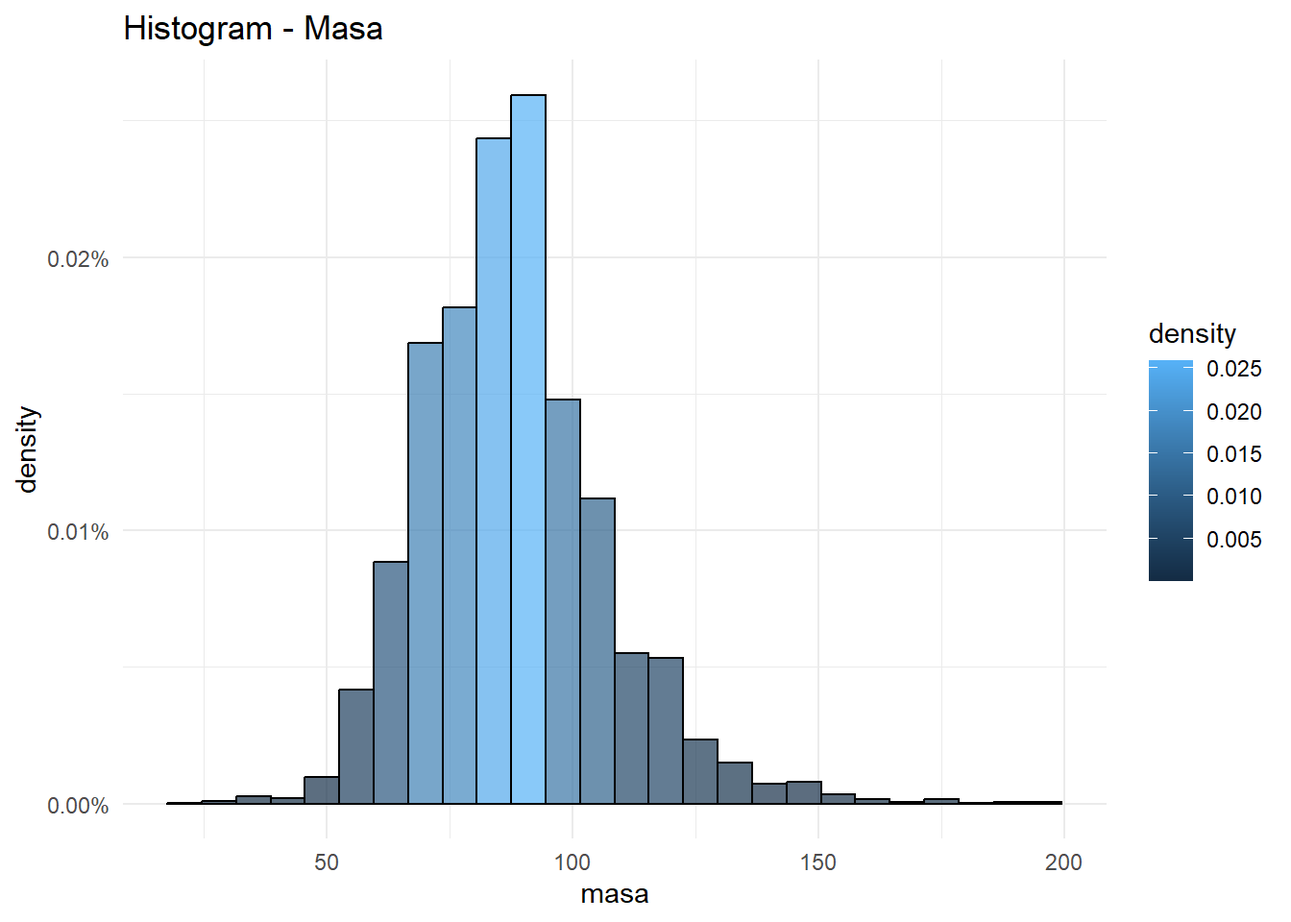
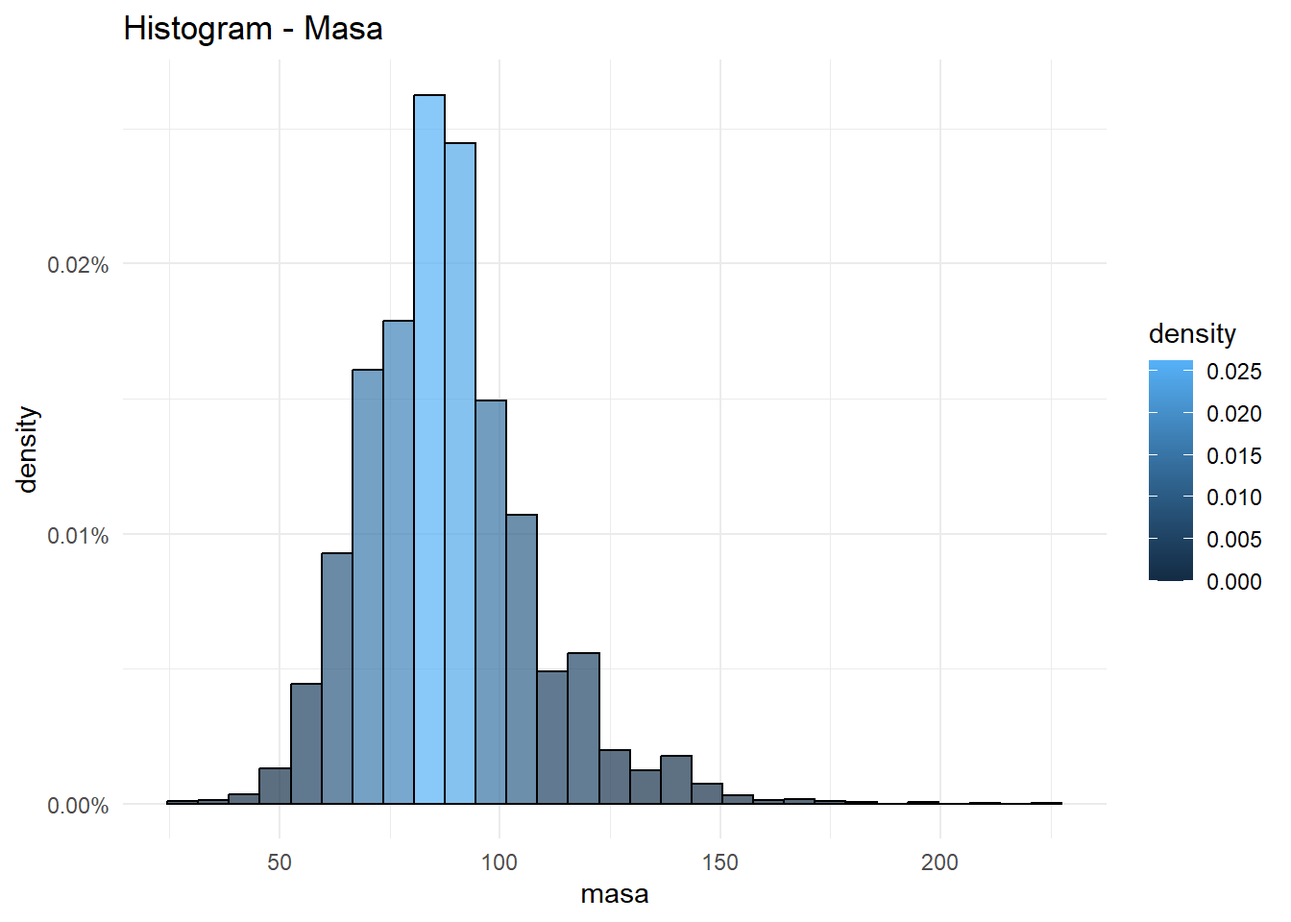
Analiza zależności

diff --git a/Raport_quatro/raport.html b/Raport_quatro/raport.html
@@ -124,114 +124,101 @@ pre > code.sourceCode > span > a:first-child::before { text-decoration: underlin
 <h2 class="anchored" data-anchor-id="ładowanie-danych">Ładowanie danych</h2>
 <p>Wpierw przystąpimy do załadowania potrzebnych bibliotek</p>
 <div class="cell">
-<div class="cell-output cell-output-stderr">
-<pre><code>Warning: pakiet 'ggplot2' został zbudowany w wersji R 4.3.2</code></pre>
+<div class="sourceCode cell-code" id="cb1"><pre class="sourceCode r code-with-copy"><code class="sourceCode r"><span id="cb1-1"><a href="#cb1-1" aria-hidden="true" tabindex="-1"></a><span class="fu">library</span>(tidyverse)</span>
+<span id="cb1-2"><a href="#cb1-2" aria-hidden="true" tabindex="-1"></a><span class="fu">library</span>(readxl)</span></code><button title="Copy to Clipboard" class="code-copy-button"><i class="bi"></i></button></pre></div>
 </div>
-<div class="cell-output cell-output-stderr">
-<pre><code>── Attaching core tidyverse packages ──────────────────────── tidyverse 2.0.0 ──
-✔ dplyr     1.1.3     ✔ readr     2.1.4
-✔ forcats   1.0.0     ✔ stringr   1.5.0
-✔ ggplot2   3.4.4     ✔ tibble    3.2.1
-✔ lubridate 1.9.3     ✔ tidyr     1.3.0
-✔ purrr     1.0.2     
-── Conflicts ────────────────────────────────────────── tidyverse_conflicts() ──
-✖ dplyr::filter() masks stats::filter()
-✖ dplyr::lag()    masks stats::lag()
-ℹ Use the conflicted package (&lt;http://conflicted.r-lib.org/&gt;) to force all conflicts to become errors</code></pre>
-</div>
-</div>
-<p>You can add options to executable code like this</p>
+<p>Teraz odczytamy dane z pliku csv.</p>
 <div class="cell">
-<div class="sourceCode cell-code" id="cb3"><pre class="sourceCode r code-with-copy"><code class="sourceCode r"><span id="cb3-1"><a href="#cb3-1" aria-hidden="true" tabindex="-1"></a>dane <span class="ot">&lt;-</span> <span class="fu">read.csv</span>(<span class="st">"../menpowerlifting.csv"</span>)</span></code><button title="Copy to Clipboard" class="code-copy-button"><i class="bi"></i></button></pre></div>
+<div class="sourceCode cell-code" id="cb2"><pre class="sourceCode r code-with-copy"><code class="sourceCode r"><span id="cb2-1"><a href="#cb2-1" aria-hidden="true" tabindex="-1"></a>dane <span class="ot">&lt;-</span> <span class="fu">read.csv</span>(<span class="st">"../menpowerlifting.csv"</span>)</span></code><button title="Copy to Clipboard" class="code-copy-button"><i class="bi"></i></button></pre></div>
 </div>
 <p>Jak widać mamy doczynienia z bardzo dużym zbiorem danych.</p>
 <div class="cell">
-<div class="sourceCode cell-code" id="cb4"><pre class="sourceCode r code-with-copy"><code class="sourceCode r"><span id="cb4-1"><a href="#cb4-1" aria-hidden="true" tabindex="-1"></a><span class="fu">dim</span>(dane)</span></code><button title="Copy to Clipboard" class="code-copy-button"><i class="bi"></i></button></pre></div>
+<div class="sourceCode cell-code" id="cb3"><pre class="sourceCode r code-with-copy"><code class="sourceCode r"><span id="cb3-1"><a href="#cb3-1" aria-hidden="true" tabindex="-1"></a><span class="fu">dim</span>(dane)</span></code><button title="Copy to Clipboard" class="code-copy-button"><i class="bi"></i></button></pre></div>
 <div class="cell-output cell-output-stdout">
 <pre><code>[1] 158266     41</code></pre>
 </div>
 </div>
 <p>Tym samym w celu dalszej analizy wygenerujemy losową próbkę o długości 5000</p>
 <div class="cell">
-<div class="sourceCode cell-code" id="cb6"><pre class="sourceCode r code-with-copy"><code class="sourceCode r"><span id="cb6-1"><a href="#cb6-1" aria-hidden="true" tabindex="-1"></a>probka <span class="ot">&lt;-</span> <span class="fu">sample_n</span>(dane, <span class="dv">5000</span>)</span></code><button title="Copy to Clipboard" class="code-copy-button"><i class="bi"></i></button></pre></div>
+<div class="sourceCode cell-code" id="cb5"><pre class="sourceCode r code-with-copy"><code class="sourceCode r"><span id="cb5-1"><a href="#cb5-1" aria-hidden="true" tabindex="-1"></a>probka <span class="ot">&lt;-</span> <span class="fu">sample_n</span>(dane, <span class="dv">5000</span>)</span></code><button title="Copy to Clipboard" class="code-copy-button"><i class="bi"></i></button></pre></div>
 </div>
 <p>Tak się prezentuje 10 początkowych obserwacji</p>
 <div class="cell">
-<div class="sourceCode cell-code" id="cb7"><pre class="sourceCode r code-with-copy"><code class="sourceCode r"><span id="cb7-1"><a href="#cb7-1" aria-hidden="true" tabindex="-1"></a><span class="fu">head</span>(probka)</span></code><button title="Copy to Clipboard" class="code-copy-button"><i class="bi"></i></button></pre></div>
+<div class="sourceCode cell-code" id="cb6"><pre class="sourceCode r code-with-copy"><code class="sourceCode r"><span id="cb6-1"><a href="#cb6-1" aria-hidden="true" tabindex="-1"></a><span class="fu">head</span>(probka)</span></code><button title="Copy to Clipboard" class="code-copy-button"><i class="bi"></i></button></pre></div>
 <div class="cell-output cell-output-stdout">
-<pre><code>             Name Sex Event Equipment  Age AgeClass BirthYearClass
-1   Valentin Soto   M   SBD       Raw 30.0    24-34          24-39
-2 Steffen Burghar   M   SBD       Raw 64.0    60-64          60-69
-3  Gareth Murchie   M   SBD       Raw   NA                        
-4  Miha Jovanović   M   SBD       Raw 21.0    20-23          19-23
-5         Qing Li   M   SBD       Raw 18.5    18-19          19-23
-6     Jack Lysell   M   SBD       Raw 24.0    24-34          24-39
+<pre><code>              Name Sex Event Equipment  Age AgeClass BirthYearClass
+1  Jackson Lathrop   M   SBD       Raw 16.5    16-17          14-18
+2 Francesco Tironi   M   SBD       Raw 28.5    24-34          24-39
+3  Carlos Hicks Jr   M   SBD       Raw 15.5    16-17          14-18
+4      Tomáš Vorel   M   SBD       Raw 16.5    16-17          14-18
+5     Jason Masler   M   SBD       Raw 18.0    18-19               
+6   Michal Talalaj   M   SBD       Raw 16.5    16-17          14-18
        Division BodyweightKg WeightClassKg Squat1Kg Squat2Kg Squat3Kg Squat4Kg
-1          Open       106.20           110   -250.0    252.5    262.5       NA
-2 Masters 60-64        71.80            75    140.0    150.0    160.0       NA
-3      M-C-Open        82.40            83    140.0    150.0    160.0       NA
-4          Open       101.40           110    200.0    215.0   -225.0       NA
-5          MR-O        66.76          67.5    125.0   -140.0   -140.0       NA
-6          Open        98.30           100    182.5    202.5    215.0       NA
+1         MR-T2        68.30            75      140      145    150.0       NA
+2        Senior       117.12           120      265      280   -290.0       NA
+3         MR-Sj        81.70            83     -230      240    252.5       NA
+4   Sub-Juniors        64.20            66       NA       NA       NA       NA
+5 Juniors 18-19        64.10          67.5       NA       NA       NA       NA
+6         MR-T2        81.50          82.5      175     -185    185.0       NA
   Best3SquatKg Bench1Kg Bench2Kg Bench3Kg Bench4Kg Best3BenchKg Deadlift1Kg
-1        262.5    187.5   -192.5   -192.5       NA        187.5       290.0
-2        160.0     92.5     95.0    -97.5       NA         95.0       140.0
-3        160.0    115.0    122.5    130.0       NA        130.0       215.0
-4        215.0    150.0   -165.0   -165.0       NA        150.0       250.0
-5        125.0    110.0    120.0   -125.0       NA        120.0       130.0
-6        215.0    135.0    142.5    147.5       NA        147.5       237.5
+1        150.0       95      100     -110       NA        100.0         155
+2        280.0      165      175     -180       NA        175.0         280
+3        252.5      125      135     -145       NA        135.0         245
+4        147.5       NA       NA       NA       NA        105.0          NA
+5        167.5       NA       NA       NA       NA         87.5          NA
+6        185.0      100      110     -115       NA        110.0         185
   Deadlift2Kg Deadlift3Kg Deadlift4Kg Best3DeadliftKg TotalKg Place   Dots
-1         300      -307.5          NA             300   750.0     1 450.27
-2         150       160.0          NA             160   415.0     1 306.37
-3         225       230.0          NA             230   520.0     1 352.49
-4         255          NA          NA             255   620.0     3 379.35
-5         150       165.0          NA             165   410.0     1 318.55
-6         250          NA          NA             250   612.5     4 379.85
-   Wilks Glossbrenner Goodlift Tested  Country State    Federation
-1 446.41       426.33    92.11    Yes      USA    NV          USPA
-2 305.11       295.36    61.89                           PAGermany
-3 348.60       335.44    72.25    Yes  England    NM           EPA
-4 375.27       358.36    77.81        Slovenia       WRPF-Slovenia
-5 318.94       309.75    63.53    Yes    China               USAPL
-6 375.38       358.65    78.01             USA    TX          USPA
-  ParentFederation       Date MeetCountry MeetState    MeetTown
-1              IPL 2023-09-09         USA        NV   Las Vegas
-2              WPF 2015-05-01     Germany                Coburg
-3              IPF 2019-04-27     England                      
-4             WRPF 2023-10-28    Slovenia           Škofja Loka
-5                  2023-07-29       China                      
-6              IPL 2020-12-05         USA        MO Kansas City
-                                                    MeetName
-1                                 Drug Tested Desert Rampage
-2 Deutsche Meisterschaften im KDK Bankdrücken und Kreuzheben
-3                        North Midlands Spring Championships
-4                        4. slovensko powerlifting prvenstvo
-5                                    Southwest Championships
-6                                            Only the Strong</code></pre>
+1         160         165          NA           165.0   415.0     5 317.17
+2         290         300          NA           300.0   755.0     3 437.18
+3         255         260          NA           260.0   647.5     1 441.05
+4          NA          NA          NA           172.5   425.0     1 340.00
+5          NA          NA          NA           167.5   422.5     1 338.40
+6         190         200          NA           200.0   495.0     1 337.65
+   Wilks Glossbrenner Goodlift Tested Country State Federation ParentFederation
+1 316.99       307.54    63.53    Yes     USA    GA      USAPL                 
+2 436.62       418.20    88.71    Yes                     FIPL              IPF
+3 436.32       420.02    90.35    Yes     USA    MS        AMP              IPF
+4 341.50       332.29    67.23    Yes Czechia             CSST              IPF
+5 339.95       330.80    66.89            USA    CA       USPA              IPL
+6 334.06       321.61    69.16    Yes     USA    IL      USAPL                 
+        Date MeetCountry MeetState           MeetTown
+1 2023-11-04         USA        GA                   
+2 2023-10-14       Italy           S.Zenone al Lambro
+3 2022-12-10         USA        MS                   
+4 2017-05-13     Czechia                       Zbýšov
+5 2017-08-12         USA        CA         Long Beach
+6 2023-03-11         USA        IL                   
+                                                                                                  MeetName
+1                                                                              South Georgia Barbell Brawl
+2                                                                           Finali maschili senior classic
+3                                                                                         Mississippi Open
+4 Ročník Poháru Starosty Města Zbýšova v Klasickém Silovém Trojboji Dorostu a Juniorů S Mezinárodní Účastí
+5                                                                                          Long Beach Open
+6                                                                                    Shamrock the Compound</code></pre>
 </div>
 </div>
 <p>Interesować nas będą tylko zmienne <strong>AgeClass, BodyWeightKg, Best3BenchKg, Best3DeadliftKg, Best3SquatKg, TotalKg</strong></p>
 <div class="cell">
-<div class="sourceCode cell-code" id="cb9"><pre class="sourceCode r code-with-copy"><code class="sourceCode r"><span id="cb9-1"><a href="#cb9-1" aria-hidden="true" tabindex="-1"></a>probka <span class="ot">&lt;-</span> probka[, <span class="fu">c</span>(<span class="st">"AgeClass"</span>, <span class="st">"BodyweightKg"</span>, <span class="st">"Best3BenchKg"</span>, <span class="st">"Best3SquatKg"</span>, <span class="st">"Best3DeadliftKg"</span>, <span class="st">"TotalKg"</span>)]</span>
-<span id="cb9-2"><a href="#cb9-2" aria-hidden="true" tabindex="-1"></a></span>
-<span id="cb9-3"><a href="#cb9-3" aria-hidden="true" tabindex="-1"></a><span class="fu">summary</span>(probka)</span></code><button title="Copy to Clipboard" class="code-copy-button"><i class="bi"></i></button></pre></div>
+<div class="sourceCode cell-code" id="cb8"><pre class="sourceCode r code-with-copy"><code class="sourceCode r"><span id="cb8-1"><a href="#cb8-1" aria-hidden="true" tabindex="-1"></a>probka <span class="ot">&lt;-</span> probka[, <span class="fu">c</span>(<span class="st">"AgeClass"</span>, <span class="st">"BodyweightKg"</span>, <span class="st">"Best3BenchKg"</span>, <span class="st">"Best3SquatKg"</span>, <span class="st">"Best3DeadliftKg"</span>, <span class="st">"TotalKg"</span>)]</span>
+<span id="cb8-2"><a href="#cb8-2" aria-hidden="true" tabindex="-1"></a></span>
+<span id="cb8-3"><a href="#cb8-3" aria-hidden="true" tabindex="-1"></a><span class="fu">summary</span>(probka)</span></code><button title="Copy to Clipboard" class="code-copy-button"><i class="bi"></i></button></pre></div>
 <div class="cell-output cell-output-stdout">
 <pre><code>   AgeClass          BodyweightKg     Best3BenchKg    Best3SquatKg  
- Length:5000        Min.   : 23.40   Min.   : 12.0   Min.   : 16.5  
- Class :character   1st Qu.: 74.39   1st Qu.:100.0   1st Qu.:152.5  
- Mode  :character   Median : 86.80   Median :120.0   Median :180.0  
-                    Mean   : 87.94   Mean   :120.3   Mean   :180.0  
-                    3rd Qu.: 98.30   3rd Qu.:140.0   3rd Qu.:210.0  
-                    Max.   :196.70   Max.   :252.5   Max.   :365.5  
-                                     NA's   :4       NA's   :4      
+ Length:5000        Min.   : 21.77   Min.   : 10.5   Min.   : 11.0  
+ Class :character   1st Qu.: 74.30   1st Qu.:100.0   1st Qu.:150.0  
+ Mode  :character   Median : 86.09   Median :120.0   Median :180.0  
+                    Mean   : 87.99   Mean   :120.2   Mean   :179.2  
+                    3rd Qu.: 98.80   3rd Qu.:140.0   3rd Qu.:207.5  
+                    Max.   :200.00   Max.   :245.0   Max.   :410.0  
+                                     NA's   :5       NA's   :3      
  Best3DeadliftKg    TotalKg     
- Min.   : 31.0   Min.   : 59.5  
- 1st Qu.:182.5   1st Qu.:442.0  
- Median :212.5   Median :512.5  
- Mean   :210.5   Mean   :510.7  
- 3rd Qu.:240.0   3rd Qu.:585.0  
- Max.   :355.0   Max.   :922.5  
- NA's   :2                      </code></pre>
+ Min.   : 25.0   Min.   : 52.0  
+ 1st Qu.:182.5   1st Qu.:440.0  
+ Median :210.0   Median :510.0  
+ Mean   :209.4   Mean   :508.6  
+ 3rd Qu.:240.0   3rd Qu.:582.5  
+ Max.   :365.0   Max.   :955.0  
+ NA's   :6                      </code></pre>
 </div>
 </div>
 <p>Napotykamy pierwszy problem. Wszystkie zmienne są typu <code>character</code>, gdy powinny być typu</p>
@@ -241,86 +228,86 @@ pre > code.sourceCode > span > a:first-child::before { text-decoration: underlin
 </ul>
 <p>Dokonajmy więc konwersji</p>
 <div class="cell">
-<div class="sourceCode cell-code" id="cb11"><pre class="sourceCode r code-with-copy"><code class="sourceCode r"><span id="cb11-1"><a href="#cb11-1" aria-hidden="true" tabindex="-1"></a>probka<span class="sc">$</span>BodyweightKg    <span class="ot">&lt;-</span> <span class="fu">as.numeric</span>(probka<span class="sc">$</span>BodyweightKg)</span>
-<span id="cb11-2"><a href="#cb11-2" aria-hidden="true" tabindex="-1"></a>probka<span class="sc">$</span>Best3BenchKg    <span class="ot">&lt;-</span> <span class="fu">as.numeric</span>(probka<span class="sc">$</span>Best3BenchKg)</span>
-<span id="cb11-3"><a href="#cb11-3" aria-hidden="true" tabindex="-1"></a>probka<span class="sc">$</span>Best3SquatKg    <span class="ot">&lt;-</span> <span class="fu">as.numeric</span>(probka<span class="sc">$</span>Best3SquatKg)</span>
-<span id="cb11-4"><a href="#cb11-4" aria-hidden="true" tabindex="-1"></a>probka<span class="sc">$</span>Best3DeadliftKg <span class="ot">&lt;-</span> <span class="fu">as.numeric</span>(probka<span class="sc">$</span>Best3DeadliftKg)</span>
-<span id="cb11-5"><a href="#cb11-5" aria-hidden="true" tabindex="-1"></a>probka<span class="sc">$</span>TotalKg         <span class="ot">&lt;-</span> <span class="fu">as.numeric</span>(probka<span class="sc">$</span>TotalKg)</span>
-<span id="cb11-6"><a href="#cb11-6" aria-hidden="true" tabindex="-1"></a></span>
-<span id="cb11-7"><a href="#cb11-7" aria-hidden="true" tabindex="-1"></a>probka<span class="sc">$</span>AgeClass        <span class="ot">&lt;-</span> <span class="fu">as.factor</span>(probka<span class="sc">$</span>AgeClass)</span></code><button title="Copy to Clipboard" class="code-copy-button"><i class="bi"></i></button></pre></div>
+<div class="sourceCode cell-code" id="cb10"><pre class="sourceCode r code-with-copy"><code class="sourceCode r"><span id="cb10-1"><a href="#cb10-1" aria-hidden="true" tabindex="-1"></a>probka<span class="sc">$</span>BodyweightKg    <span class="ot">&lt;-</span> <span class="fu">as.numeric</span>(probka<span class="sc">$</span>BodyweightKg)</span>
+<span id="cb10-2"><a href="#cb10-2" aria-hidden="true" tabindex="-1"></a>probka<span class="sc">$</span>Best3BenchKg    <span class="ot">&lt;-</span> <span class="fu">as.numeric</span>(probka<span class="sc">$</span>Best3BenchKg)</span>
+<span id="cb10-3"><a href="#cb10-3" aria-hidden="true" tabindex="-1"></a>probka<span class="sc">$</span>Best3SquatKg    <span class="ot">&lt;-</span> <span class="fu">as.numeric</span>(probka<span class="sc">$</span>Best3SquatKg)</span>
+<span id="cb10-4"><a href="#cb10-4" aria-hidden="true" tabindex="-1"></a>probka<span class="sc">$</span>Best3DeadliftKg <span class="ot">&lt;-</span> <span class="fu">as.numeric</span>(probka<span class="sc">$</span>Best3DeadliftKg)</span>
+<span id="cb10-5"><a href="#cb10-5" aria-hidden="true" tabindex="-1"></a>probka<span class="sc">$</span>TotalKg         <span class="ot">&lt;-</span> <span class="fu">as.numeric</span>(probka<span class="sc">$</span>TotalKg)</span>
+<span id="cb10-6"><a href="#cb10-6" aria-hidden="true" tabindex="-1"></a></span>
+<span id="cb10-7"><a href="#cb10-7" aria-hidden="true" tabindex="-1"></a>probka<span class="sc">$</span>AgeClass        <span class="ot">&lt;-</span> <span class="fu">as.factor</span>(probka<span class="sc">$</span>AgeClass)</span></code><button title="Copy to Clipboard" class="code-copy-button"><i class="bi"></i></button></pre></div>
 </div>
 <div class="cell">
-<div class="sourceCode cell-code" id="cb12"><pre class="sourceCode r code-with-copy"><code class="sourceCode r"><span id="cb12-1"><a href="#cb12-1" aria-hidden="true" tabindex="-1"></a><span class="fu">summary</span>(probka)</span></code><button title="Copy to Clipboard" class="code-copy-button"><i class="bi"></i></button></pre></div>
+<div class="sourceCode cell-code" id="cb11"><pre class="sourceCode r code-with-copy"><code class="sourceCode r"><span id="cb11-1"><a href="#cb11-1" aria-hidden="true" tabindex="-1"></a><span class="fu">summary</span>(probka)</span></code><button title="Copy to Clipboard" class="code-copy-button"><i class="bi"></i></button></pre></div>
 <div class="cell-output cell-output-stdout">
 <pre><code>    AgeClass     BodyweightKg     Best3BenchKg    Best3SquatKg  
- 24-34  :1459   Min.   : 23.40   Min.   : 12.0   Min.   : 16.5  
- 20-23  :1044   1st Qu.: 74.39   1st Qu.:100.0   1st Qu.:152.5  
-        : 890   Median : 86.80   Median :120.0   Median :180.0  
- 18-19  : 513   Mean   : 87.94   Mean   :120.3   Mean   :180.0  
- 16-17  : 363   3rd Qu.: 98.30   3rd Qu.:140.0   3rd Qu.:210.0  
- 35-39  : 203   Max.   :196.70   Max.   :252.5   Max.   :365.5  
- (Other): 528                    NA's   :4       NA's   :4      
+ 24-34  :1468   Min.   : 21.77   Min.   : 10.5   Min.   : 11.0  
+ 20-23  :1092   1st Qu.: 74.30   1st Qu.:100.0   1st Qu.:150.0  
+        : 829   Median : 86.09   Median :120.0   Median :180.0  
+ 18-19  : 521   Mean   : 87.99   Mean   :120.2   Mean   :179.2  
+ 16-17  : 344   3rd Qu.: 98.80   3rd Qu.:140.0   3rd Qu.:207.5  
+ 35-39  : 191   Max.   :200.00   Max.   :245.0   Max.   :410.0  
+ (Other): 555                    NA's   :5       NA's   :3      
  Best3DeadliftKg    TotalKg     
- Min.   : 31.0   Min.   : 59.5  
- 1st Qu.:182.5   1st Qu.:442.0  
- Median :212.5   Median :512.5  
- Mean   :210.5   Mean   :510.7  
- 3rd Qu.:240.0   3rd Qu.:585.0  
- Max.   :355.0   Max.   :922.5  
- NA's   :2                      </code></pre>
+ Min.   : 25.0   Min.   : 52.0  
+ 1st Qu.:182.5   1st Qu.:440.0  
+ Median :210.0   Median :510.0  
+ Mean   :209.4   Mean   :508.6  
+ 3rd Qu.:240.0   3rd Qu.:582.5  
+ Max.   :365.0   Max.   :955.0  
+ NA's   :6                      </code></pre>
 </div>
 </div>
 <p>Dokonamy teraz zmiany nazw kolumn na bardziej przystępne</p>
 <div class="cell">
-<div class="sourceCode cell-code" id="cb14"><pre class="sourceCode r code-with-copy"><code class="sourceCode r"><span id="cb14-1"><a href="#cb14-1" aria-hidden="true" tabindex="-1"></a><span class="fu">colnames</span>(probka) <span class="ot">&lt;-</span> <span class="fu">c</span>(<span class="st">"wiek"</span>, <span class="st">"masa"</span>, <span class="st">"lawka"</span>, <span class="st">"przysiad"</span>, <span class="st">"martwyciag"</span>, <span class="st">"total"</span>)</span>
-<span id="cb14-2"><a href="#cb14-2" aria-hidden="true" tabindex="-1"></a><span class="fu">head</span>(probka)</span></code><button title="Copy to Clipboard" class="code-copy-button"><i class="bi"></i></button></pre></div>
+<div class="sourceCode cell-code" id="cb13"><pre class="sourceCode r code-with-copy"><code class="sourceCode r"><span id="cb13-1"><a href="#cb13-1" aria-hidden="true" tabindex="-1"></a><span class="fu">colnames</span>(probka) <span class="ot">&lt;-</span> <span class="fu">c</span>(<span class="st">"wiek"</span>, <span class="st">"masa"</span>, <span class="st">"lawka"</span>, <span class="st">"przysiad"</span>, <span class="st">"martwyciag"</span>, <span class="st">"total"</span>)</span>
+<span id="cb13-2"><a href="#cb13-2" aria-hidden="true" tabindex="-1"></a><span class="fu">head</span>(probka)</span></code><button title="Copy to Clipboard" class="code-copy-button"><i class="bi"></i></button></pre></div>
 <div class="cell-output cell-output-stdout">
 <pre><code>   wiek   masa lawka przysiad martwyciag total
-1 24-34 106.20 187.5    262.5        300 750.0
-2 60-64  71.80  95.0    160.0        160 415.0
-3        82.40 130.0    160.0        230 520.0
-4 20-23 101.40 150.0    215.0        255 620.0
-5 18-19  66.76 120.0    125.0        165 410.0
-6 24-34  98.30 147.5    215.0        250 612.5</code></pre>
+1 16-17  68.30 100.0    150.0      165.0 415.0
+2 24-34 117.12 175.0    280.0      300.0 755.0
+3 16-17  81.70 135.0    252.5      260.0 647.5
+4 16-17  64.20 105.0    147.5      172.5 425.0
+5 18-19  64.10  87.5    167.5      167.5 422.5
+6 16-17  81.50 110.0    185.0      200.0 495.0</code></pre>
 </div>
 </div>
 <div>
 <details>
 <summary>Code</summary>
-<div class="sourceCode cell-code" id="cb16"><pre class="sourceCode r code-with-copy"><code class="sourceCode r"><span id="cb16-1"><a href="#cb16-1" aria-hidden="true" tabindex="-1"></a><span class="co"># Assuming your dataframe is named 'probka'</span></span>
-<span id="cb16-2"><a href="#cb16-2" aria-hidden="true" tabindex="-1"></a><span class="co"># Replace 'probka' with the actual name of your dataframe</span></span>
-<span id="cb16-3"><a href="#cb16-3" aria-hidden="true" tabindex="-1"></a></span>
-<span id="cb16-4"><a href="#cb16-4" aria-hidden="true" tabindex="-1"></a><span class="co"># Plot normalized histograms for each level of the "wiek" factor</span></span>
-<span id="cb16-5"><a href="#cb16-5" aria-hidden="true" tabindex="-1"></a></span>
-<span id="cb16-6"><a href="#cb16-6" aria-hidden="true" tabindex="-1"></a><span class="fu">ggplot</span>(probka, <span class="fu">aes</span>(<span class="at">x =</span> wiek, <span class="at">y =</span> ..count.., <span class="at">fill =</span> ..count..)) <span class="sc">+</span></span>
-<span id="cb16-7"><a href="#cb16-7" aria-hidden="true" tabindex="-1"></a>  <span class="fu">geom_bar</span>(<span class="at">color =</span> <span class="st">"black"</span>, <span class="at">alpha =</span> <span class="fl">0.7</span>, <span class="at">position =</span> <span class="st">"identity"</span>) <span class="sc">+</span></span>
-<span id="cb16-8"><a href="#cb16-8" aria-hidden="true" tabindex="-1"></a>  <span class="fu">ggtitle</span>(<span class="st">"Histogram - Wiek"</span>) <span class="sc">+</span> </span>
-<span id="cb16-9"><a href="#cb16-9" aria-hidden="true" tabindex="-1"></a>  <span class="fu">theme_minimal</span>()</span>
-<span id="cb16-10"><a href="#cb16-10" aria-hidden="true" tabindex="-1"></a><span class="fu">ggplot</span>(probka, <span class="fu">aes</span>(<span class="at">x =</span> masa, <span class="at">y =</span> ..density.., <span class="at">fill =</span> ..density..)) <span class="sc">+</span></span>
-<span id="cb16-11"><a href="#cb16-11" aria-hidden="true" tabindex="-1"></a>  <span class="fu">geom_histogram</span>(<span class="at">binwidth =</span> <span class="dv">7</span>, <span class="at">color =</span> <span class="st">"black"</span>, <span class="at">alpha =</span> <span class="fl">0.7</span>, <span class="at">position =</span> <span class="st">"identity"</span>) <span class="sc">+</span></span>
-<span id="cb16-12"><a href="#cb16-12" aria-hidden="true" tabindex="-1"></a>  <span class="fu">ggtitle</span>(<span class="st">"Histogram - Masa"</span>) <span class="sc">+</span></span>
-<span id="cb16-13"><a href="#cb16-13" aria-hidden="true" tabindex="-1"></a>  <span class="fu">theme_minimal</span>() <span class="sc">+</span></span>
-<span id="cb16-14"><a href="#cb16-14" aria-hidden="true" tabindex="-1"></a>  <span class="fu">scale_y_continuous</span>(<span class="at">labels =</span> scales<span class="sc">::</span><span class="fu">percent_format</span>(<span class="at">scale =</span> <span class="dv">1</span>))</span>
-<span id="cb16-15"><a href="#cb16-15" aria-hidden="true" tabindex="-1"></a><span class="fu">ggplot</span>(probka, <span class="fu">aes</span>(<span class="at">x =</span> lawka, <span class="at">y =</span> ..density.., <span class="at">fill =</span> ..density..)) <span class="sc">+</span></span>
-<span id="cb16-16"><a href="#cb16-16" aria-hidden="true" tabindex="-1"></a>  <span class="fu">geom_histogram</span>(<span class="at">binwidth =</span> <span class="dv">10</span>, <span class="at">color =</span> <span class="st">"black"</span>, <span class="at">alpha =</span> <span class="fl">0.7</span>, <span class="at">position =</span> <span class="st">"identity"</span>) <span class="sc">+</span></span>
-<span id="cb16-17"><a href="#cb16-17" aria-hidden="true" tabindex="-1"></a>  <span class="fu">ggtitle</span>(<span class="st">"Histogram - Lawka"</span>) <span class="sc">+</span></span>
-<span id="cb16-18"><a href="#cb16-18" aria-hidden="true" tabindex="-1"></a>  <span class="fu">theme_minimal</span>() <span class="sc">+</span></span>
-<span id="cb16-19"><a href="#cb16-19" aria-hidden="true" tabindex="-1"></a>  <span class="fu">scale_y_continuous</span>(<span class="at">labels =</span> scales<span class="sc">::</span><span class="fu">percent_format</span>(<span class="at">scale =</span> <span class="dv">1</span>))</span>
-<span id="cb16-20"><a href="#cb16-20" aria-hidden="true" tabindex="-1"></a><span class="fu">ggplot</span>(probka, <span class="fu">aes</span>(<span class="at">x =</span> przysiad, <span class="at">y =</span> ..density.., <span class="at">fill =</span> ..density..)) <span class="sc">+</span></span>
-<span id="cb16-21"><a href="#cb16-21" aria-hidden="true" tabindex="-1"></a>  <span class="fu">geom_histogram</span>(<span class="at">binwidth =</span> <span class="dv">10</span>, <span class="at">color =</span> <span class="st">"black"</span>, <span class="at">alpha =</span> <span class="fl">0.7</span>, <span class="at">position =</span> <span class="st">"identity"</span>) <span class="sc">+</span></span>
-<span id="cb16-22"><a href="#cb16-22" aria-hidden="true" tabindex="-1"></a>  <span class="fu">ggtitle</span>(<span class="st">"Histogram - Przysiad"</span>) <span class="sc">+</span></span>
-<span id="cb16-23"><a href="#cb16-23" aria-hidden="true" tabindex="-1"></a>  <span class="fu">theme_minimal</span>() <span class="sc">+</span></span>
-<span id="cb16-24"><a href="#cb16-24" aria-hidden="true" tabindex="-1"></a>  <span class="fu">scale_y_continuous</span>(<span class="at">labels =</span> scales<span class="sc">::</span><span class="fu">percent_format</span>(<span class="at">scale =</span> <span class="dv">1</span>))</span>
-<span id="cb16-25"><a href="#cb16-25" aria-hidden="true" tabindex="-1"></a><span class="fu">ggplot</span>(probka, <span class="fu">aes</span>(<span class="at">x =</span> martwyciag, <span class="at">y =</span> ..density.., <span class="at">fill =</span> ..density..)) <span class="sc">+</span></span>
-<span id="cb16-26"><a href="#cb16-26" aria-hidden="true" tabindex="-1"></a>  <span class="fu">geom_histogram</span>(<span class="at">binwidth =</span> <span class="dv">12</span>, <span class="at">color =</span> <span class="st">"black"</span>, <span class="at">alpha =</span> <span class="fl">0.7</span>, <span class="at">position =</span> <span class="st">"identity"</span>) <span class="sc">+</span></span>
-<span id="cb16-27"><a href="#cb16-27" aria-hidden="true" tabindex="-1"></a>  <span class="fu">ggtitle</span>(<span class="st">"Histogram - Martwy Ciag"</span>) <span class="sc">+</span></span>
-<span id="cb16-28"><a href="#cb16-28" aria-hidden="true" tabindex="-1"></a>  <span class="fu">theme_minimal</span>() <span class="sc">+</span></span>
-<span id="cb16-29"><a href="#cb16-29" aria-hidden="true" tabindex="-1"></a>  <span class="fu">scale_y_continuous</span>(<span class="at">labels =</span> scales<span class="sc">::</span><span class="fu">percent_format</span>(<span class="at">scale =</span> <span class="dv">1</span>))</span>
-<span id="cb16-30"><a href="#cb16-30" aria-hidden="true" tabindex="-1"></a><span class="fu">ggplot</span>(probka, <span class="fu">aes</span>(<span class="at">x =</span> total, <span class="at">y =</span> ..density.., <span class="at">fill =</span> ..density..)) <span class="sc">+</span></span>
-<span id="cb16-31"><a href="#cb16-31" aria-hidden="true" tabindex="-1"></a>  <span class="fu">geom_histogram</span>(<span class="at">binwidth =</span> <span class="dv">20</span>, <span class="at">color =</span> <span class="st">"black"</span>, <span class="at">alpha =</span> <span class="fl">0.7</span>, <span class="at">position =</span> <span class="st">"identity"</span>) <span class="sc">+</span></span>
-<span id="cb16-32"><a href="#cb16-32" aria-hidden="true" tabindex="-1"></a>  <span class="fu">ggtitle</span>(<span class="st">"Histogram - Total"</span>) <span class="sc">+</span></span>
-<span id="cb16-33"><a href="#cb16-33" aria-hidden="true" tabindex="-1"></a>  <span class="fu">theme_minimal</span>() <span class="sc">+</span></span>
-<span id="cb16-34"><a href="#cb16-34" aria-hidden="true" tabindex="-1"></a>  <span class="fu">scale_y_continuous</span>(<span class="at">labels =</span> scales<span class="sc">::</span><span class="fu">percent_format</span>(<span class="at">scale =</span> <span class="dv">1</span>))</span></code><button title="Copy to Clipboard" class="code-copy-button"><i class="bi"></i></button></pre></div>
+<div class="sourceCode cell-code" id="cb15"><pre class="sourceCode r code-with-copy"><code class="sourceCode r"><span id="cb15-1"><a href="#cb15-1" aria-hidden="true" tabindex="-1"></a><span class="co"># Assuming your dataframe is named 'probka'</span></span>
+<span id="cb15-2"><a href="#cb15-2" aria-hidden="true" tabindex="-1"></a><span class="co"># Replace 'probka' with the actual name of your dataframe</span></span>
+<span id="cb15-3"><a href="#cb15-3" aria-hidden="true" tabindex="-1"></a></span>
+<span id="cb15-4"><a href="#cb15-4" aria-hidden="true" tabindex="-1"></a><span class="co"># Plot normalized histograms for each level of the "wiek" factor</span></span>
+<span id="cb15-5"><a href="#cb15-5" aria-hidden="true" tabindex="-1"></a></span>
+<span id="cb15-6"><a href="#cb15-6" aria-hidden="true" tabindex="-1"></a><span class="fu">ggplot</span>(probka, <span class="fu">aes</span>(<span class="at">x =</span> wiek, <span class="at">y =</span> ..count.., <span class="at">fill =</span> ..count..)) <span class="sc">+</span></span>
+<span id="cb15-7"><a href="#cb15-7" aria-hidden="true" tabindex="-1"></a>  <span class="fu">geom_bar</span>(<span class="at">color =</span> <span class="st">"black"</span>, <span class="at">alpha =</span> <span class="fl">0.7</span>, <span class="at">position =</span> <span class="st">"identity"</span>) <span class="sc">+</span></span>
+<span id="cb15-8"><a href="#cb15-8" aria-hidden="true" tabindex="-1"></a>  <span class="fu">ggtitle</span>(<span class="st">"Histogram - Wiek"</span>) <span class="sc">+</span> </span>
+<span id="cb15-9"><a href="#cb15-9" aria-hidden="true" tabindex="-1"></a>  <span class="fu">theme_minimal</span>()</span>
+<span id="cb15-10"><a href="#cb15-10" aria-hidden="true" tabindex="-1"></a><span class="fu">ggplot</span>(probka, <span class="fu">aes</span>(<span class="at">x =</span> masa, <span class="at">y =</span> ..density.., <span class="at">fill =</span> ..density..)) <span class="sc">+</span></span>
+<span id="cb15-11"><a href="#cb15-11" aria-hidden="true" tabindex="-1"></a>  <span class="fu">geom_histogram</span>(<span class="at">binwidth =</span> <span class="dv">7</span>, <span class="at">color =</span> <span class="st">"black"</span>, <span class="at">alpha =</span> <span class="fl">0.7</span>, <span class="at">position =</span> <span class="st">"identity"</span>) <span class="sc">+</span></span>
+<span id="cb15-12"><a href="#cb15-12" aria-hidden="true" tabindex="-1"></a>  <span class="fu">ggtitle</span>(<span class="st">"Histogram - Masa"</span>) <span class="sc">+</span></span>
+<span id="cb15-13"><a href="#cb15-13" aria-hidden="true" tabindex="-1"></a>  <span class="fu">theme_minimal</span>() <span class="sc">+</span></span>
+<span id="cb15-14"><a href="#cb15-14" aria-hidden="true" tabindex="-1"></a>  <span class="fu">scale_y_continuous</span>(<span class="at">labels =</span> scales<span class="sc">::</span><span class="fu">percent_format</span>(<span class="at">scale =</span> <span class="dv">1</span>))</span>
+<span id="cb15-15"><a href="#cb15-15" aria-hidden="true" tabindex="-1"></a><span class="fu">ggplot</span>(probka, <span class="fu">aes</span>(<span class="at">x =</span> lawka, <span class="at">y =</span> ..density.., <span class="at">fill =</span> ..density..)) <span class="sc">+</span></span>
+<span id="cb15-16"><a href="#cb15-16" aria-hidden="true" tabindex="-1"></a>  <span class="fu">geom_histogram</span>(<span class="at">binwidth =</span> <span class="dv">10</span>, <span class="at">color =</span> <span class="st">"black"</span>, <span class="at">alpha =</span> <span class="fl">0.7</span>, <span class="at">position =</span> <span class="st">"identity"</span>) <span class="sc">+</span></span>
+<span id="cb15-17"><a href="#cb15-17" aria-hidden="true" tabindex="-1"></a>  <span class="fu">ggtitle</span>(<span class="st">"Histogram - Lawka"</span>) <span class="sc">+</span></span>
+<span id="cb15-18"><a href="#cb15-18" aria-hidden="true" tabindex="-1"></a>  <span class="fu">theme_minimal</span>() <span class="sc">+</span></span>
+<span id="cb15-19"><a href="#cb15-19" aria-hidden="true" tabindex="-1"></a>  <span class="fu">scale_y_continuous</span>(<span class="at">labels =</span> scales<span class="sc">::</span><span class="fu">percent_format</span>(<span class="at">scale =</span> <span class="dv">1</span>))</span>
+<span id="cb15-20"><a href="#cb15-20" aria-hidden="true" tabindex="-1"></a><span class="fu">ggplot</span>(probka, <span class="fu">aes</span>(<span class="at">x =</span> przysiad, <span class="at">y =</span> ..density.., <span class="at">fill =</span> ..density..)) <span class="sc">+</span></span>
+<span id="cb15-21"><a href="#cb15-21" aria-hidden="true" tabindex="-1"></a>  <span class="fu">geom_histogram</span>(<span class="at">binwidth =</span> <span class="dv">10</span>, <span class="at">color =</span> <span class="st">"black"</span>, <span class="at">alpha =</span> <span class="fl">0.7</span>, <span class="at">position =</span> <span class="st">"identity"</span>) <span class="sc">+</span></span>
+<span id="cb15-22"><a href="#cb15-22" aria-hidden="true" tabindex="-1"></a>  <span class="fu">ggtitle</span>(<span class="st">"Histogram - Przysiad"</span>) <span class="sc">+</span></span>
+<span id="cb15-23"><a href="#cb15-23" aria-hidden="true" tabindex="-1"></a>  <span class="fu">theme_minimal</span>() <span class="sc">+</span></span>
+<span id="cb15-24"><a href="#cb15-24" aria-hidden="true" tabindex="-1"></a>  <span class="fu">scale_y_continuous</span>(<span class="at">labels =</span> scales<span class="sc">::</span><span class="fu">percent_format</span>(<span class="at">scale =</span> <span class="dv">1</span>))</span>
+<span id="cb15-25"><a href="#cb15-25" aria-hidden="true" tabindex="-1"></a><span class="fu">ggplot</span>(probka, <span class="fu">aes</span>(<span class="at">x =</span> martwyciag, <span class="at">y =</span> ..density.., <span class="at">fill =</span> ..density..)) <span class="sc">+</span></span>
+<span id="cb15-26"><a href="#cb15-26" aria-hidden="true" tabindex="-1"></a>  <span class="fu">geom_histogram</span>(<span class="at">binwidth =</span> <span class="dv">12</span>, <span class="at">color =</span> <span class="st">"black"</span>, <span class="at">alpha =</span> <span class="fl">0.7</span>, <span class="at">position =</span> <span class="st">"identity"</span>) <span class="sc">+</span></span>
+<span id="cb15-27"><a href="#cb15-27" aria-hidden="true" tabindex="-1"></a>  <span class="fu">ggtitle</span>(<span class="st">"Histogram - Martwy Ciag"</span>) <span class="sc">+</span></span>
+<span id="cb15-28"><a href="#cb15-28" aria-hidden="true" tabindex="-1"></a>  <span class="fu">theme_minimal</span>() <span class="sc">+</span></span>
+<span id="cb15-29"><a href="#cb15-29" aria-hidden="true" tabindex="-1"></a>  <span class="fu">scale_y_continuous</span>(<span class="at">labels =</span> scales<span class="sc">::</span><span class="fu">percent_format</span>(<span class="at">scale =</span> <span class="dv">1</span>))</span>
+<span id="cb15-30"><a href="#cb15-30" aria-hidden="true" tabindex="-1"></a><span class="fu">ggplot</span>(probka, <span class="fu">aes</span>(<span class="at">x =</span> total, <span class="at">y =</span> ..density.., <span class="at">fill =</span> ..density..)) <span class="sc">+</span></span>
+<span id="cb15-31"><a href="#cb15-31" aria-hidden="true" tabindex="-1"></a>  <span class="fu">geom_histogram</span>(<span class="at">binwidth =</span> <span class="dv">20</span>, <span class="at">color =</span> <span class="st">"black"</span>, <span class="at">alpha =</span> <span class="fl">0.7</span>, <span class="at">position =</span> <span class="st">"identity"</span>) <span class="sc">+</span></span>
+<span id="cb15-32"><a href="#cb15-32" aria-hidden="true" tabindex="-1"></a>  <span class="fu">ggtitle</span>(<span class="st">"Histogram - Total"</span>) <span class="sc">+</span></span>
+<span id="cb15-33"><a href="#cb15-33" aria-hidden="true" tabindex="-1"></a>  <span class="fu">theme_minimal</span>() <span class="sc">+</span></span>
+<span id="cb15-34"><a href="#cb15-34" aria-hidden="true" tabindex="-1"></a>  <span class="fu">scale_y_continuous</span>(<span class="at">labels =</span> scales<span class="sc">::</span><span class="fu">percent_format</span>(<span class="at">scale =</span> <span class="dv">1</span>))</span></code><button title="Copy to Clipboard" class="code-copy-button"><i class="bi"></i></button></pre></div>
 </details>
 <div class="cell quarto-layout-panel">
 <div class="quarto-layout-row quarto-layout-valign-top">
